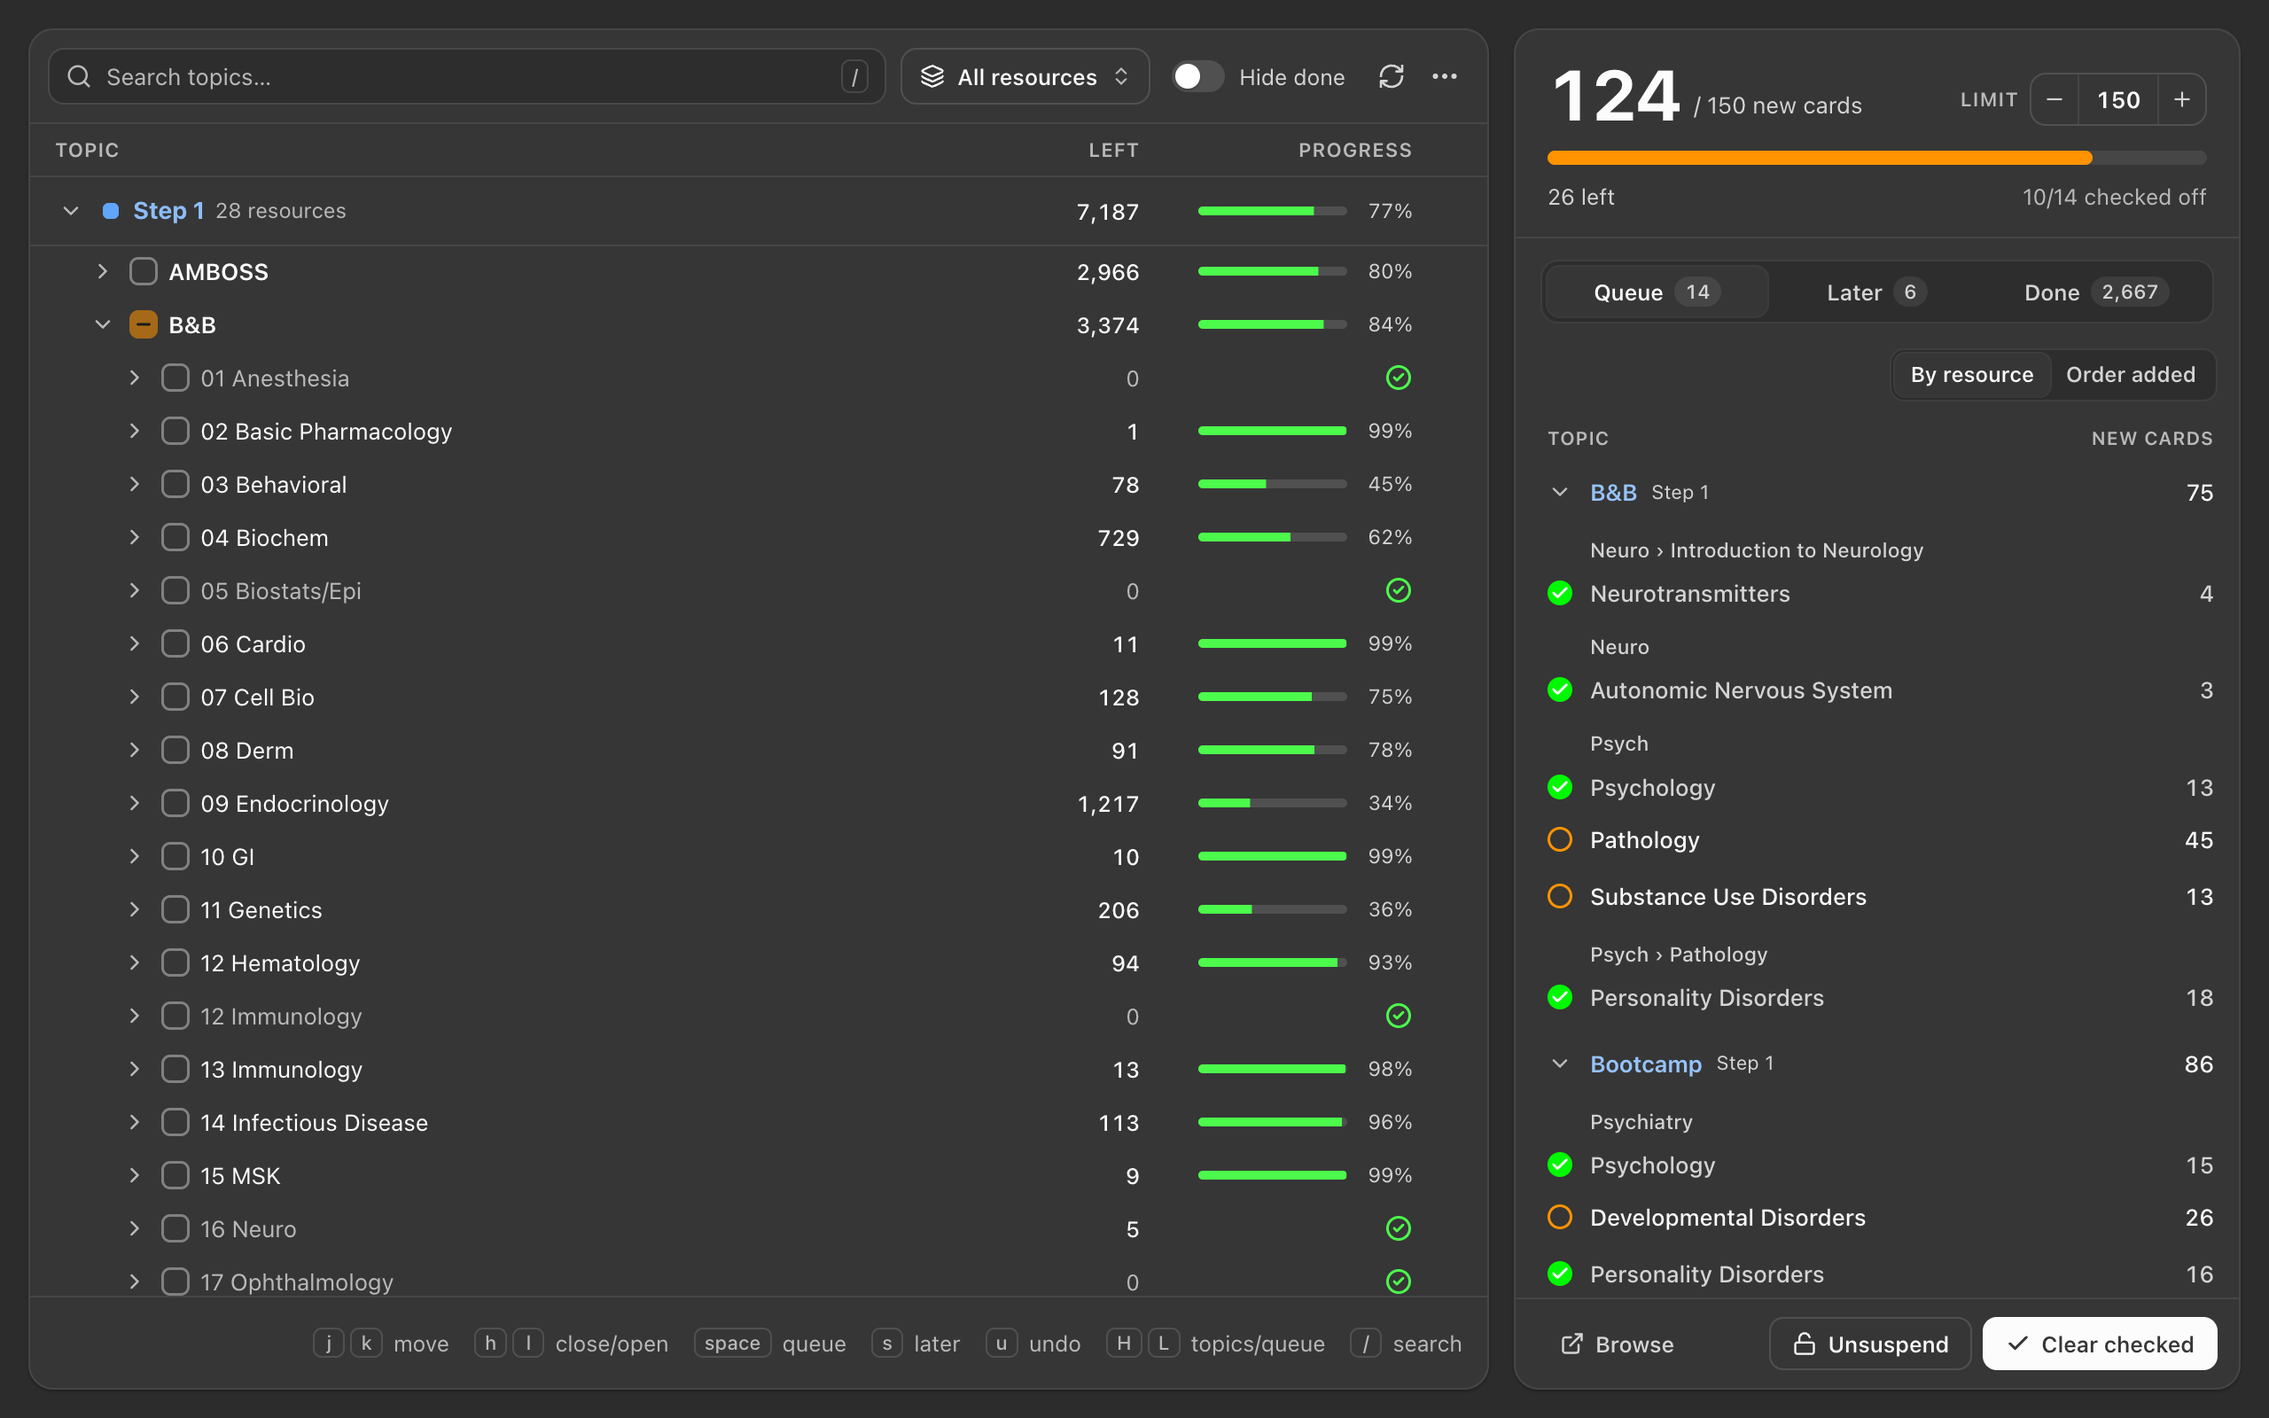
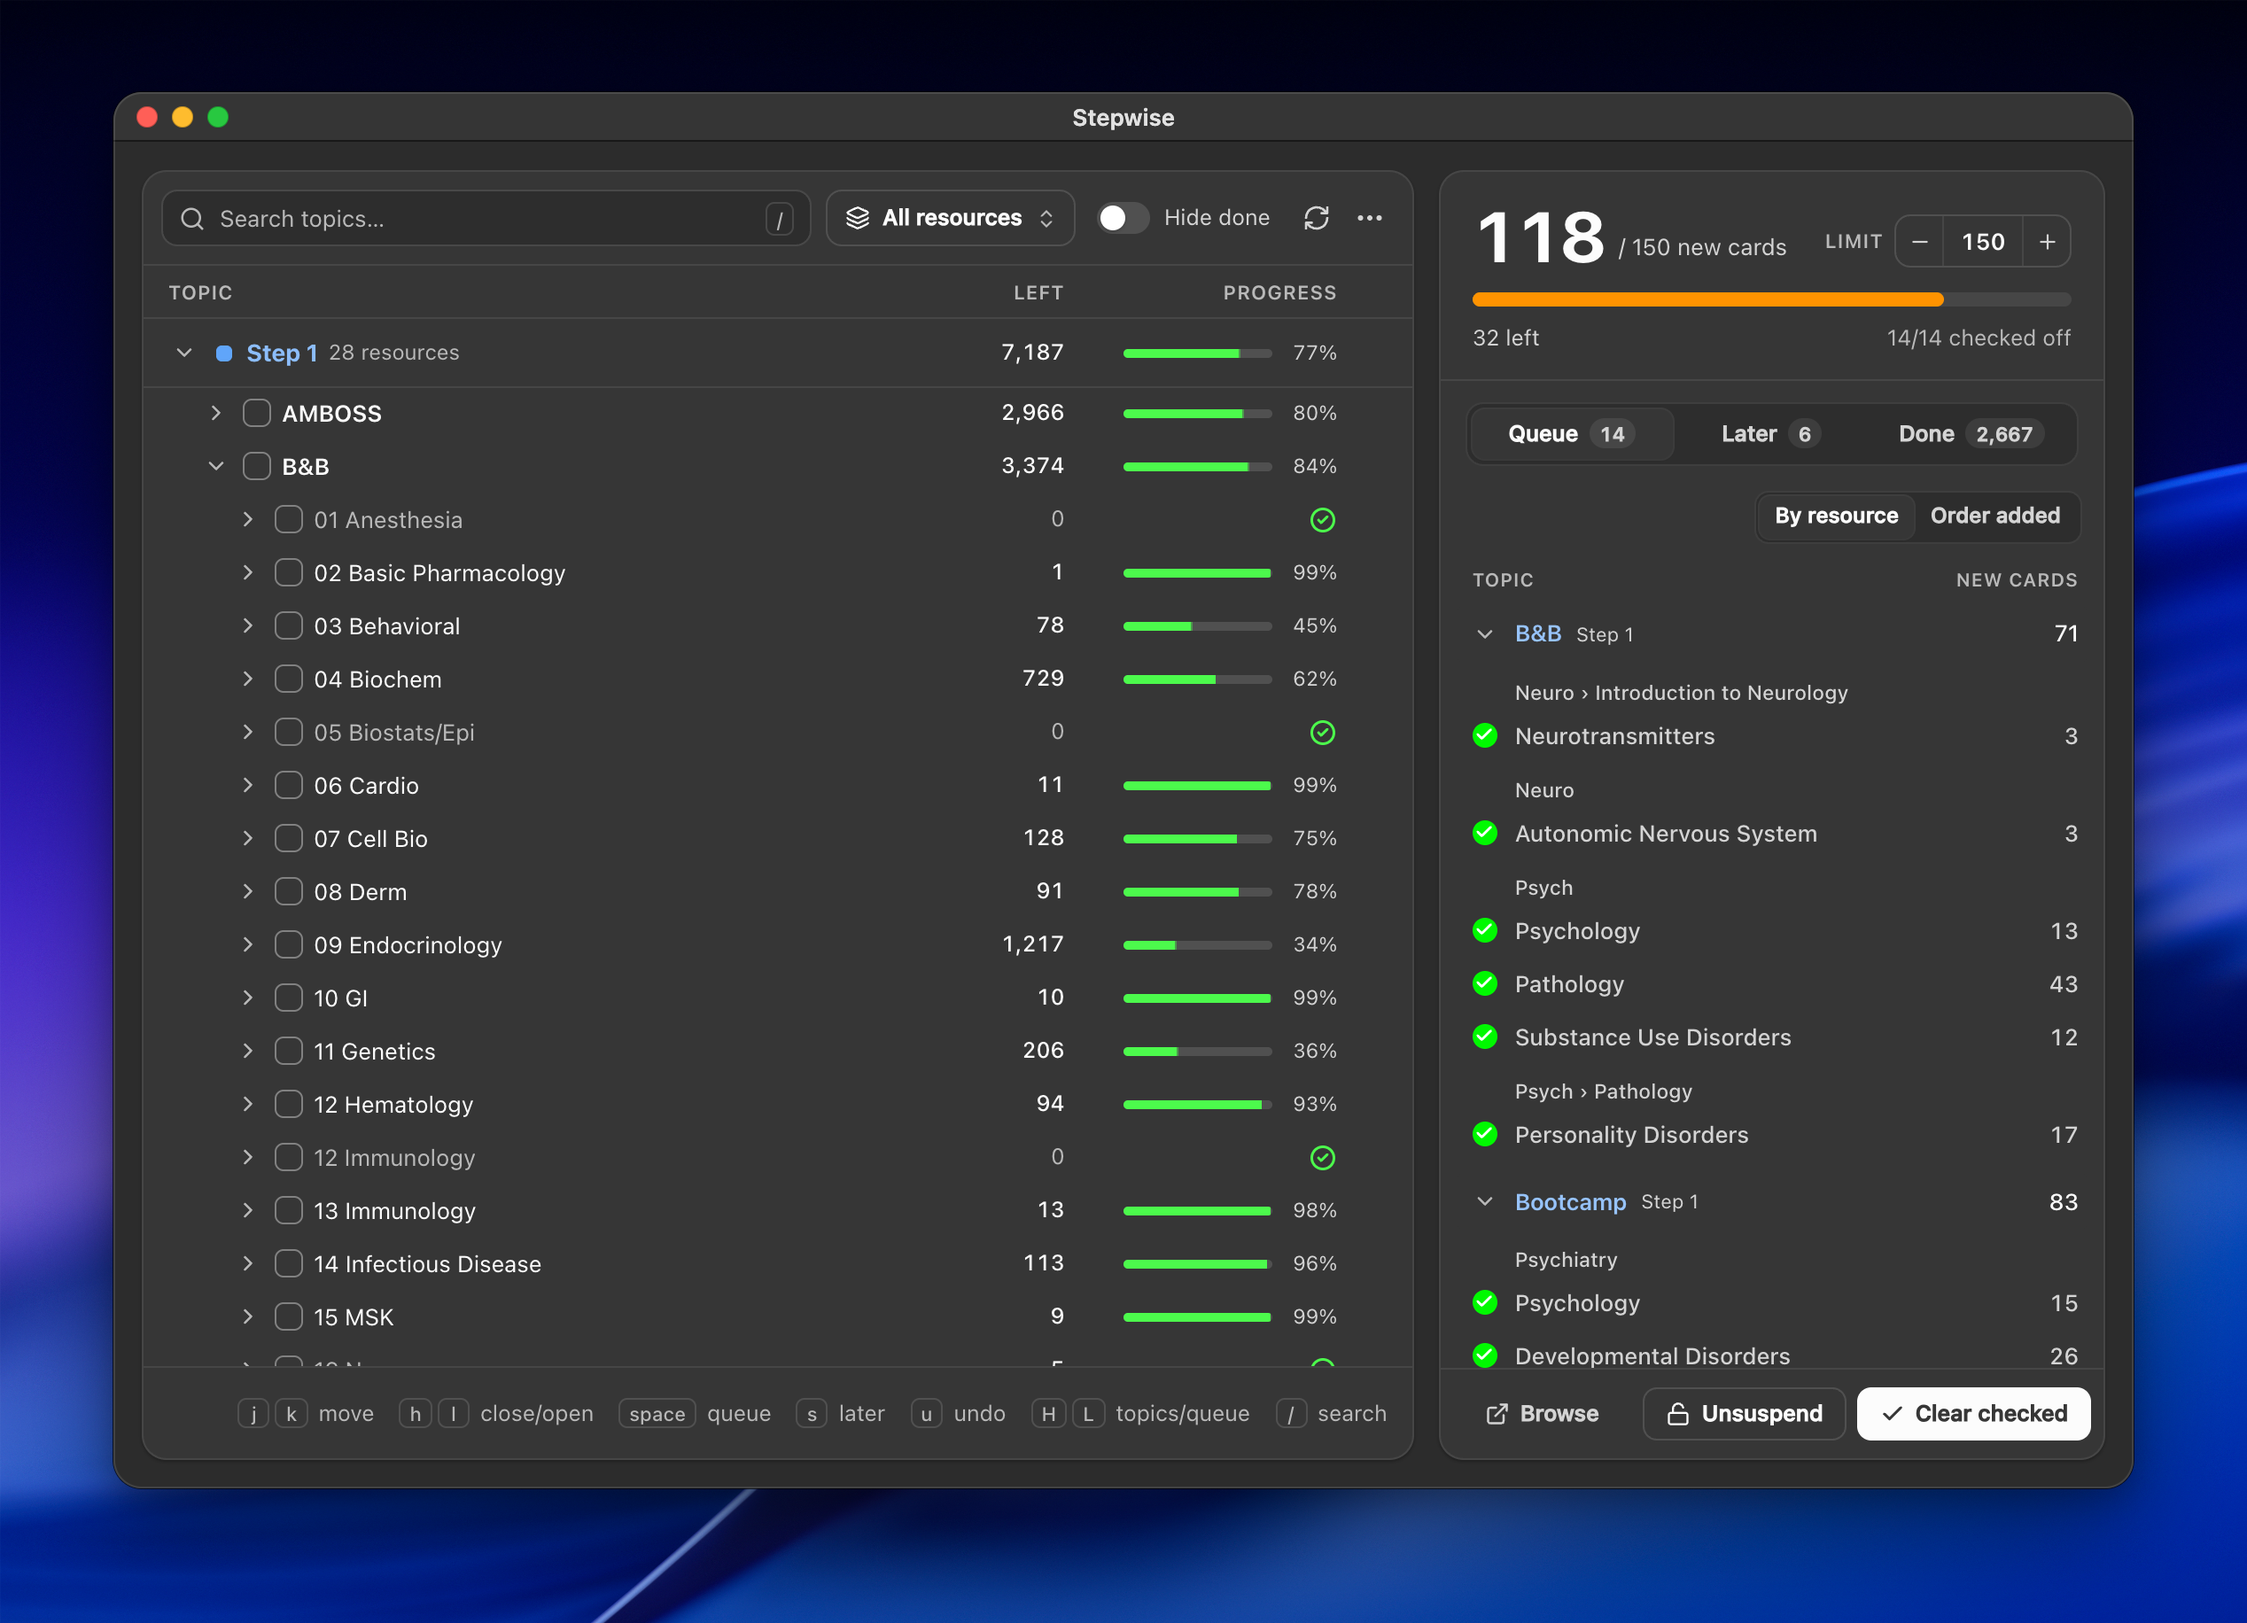
docs: frame the screenshot like the other add-ons'
Same scene as before (the tag tree with B&B open, today's queue), now
the window at its default size framed on macOS Tahoe's dark wallpaper
like every add-on's screenshots, shown at full width in the README.
The listing uses the same file.

diff --git a/README.md b/README.md
@@ -14,7 +14,7 @@ It's built for the AnKing workflow of "cover the resource, unsuspend its cards",
 and works with any hierarchical tags. The window is a web UI (React) that follows
 Anki's light and dark themes, with vim-style keyboard navigation.
 
-![Stepwise: the tag tree by resource on the left, today's queue on the right](docs/screenshot.png)
+<img src="docs/screenshot.png" width="100%" alt="Stepwise: the tag tree by resource on the left, today's queue on the right">
 
 ## Features
 
@@ -250,6 +250,11 @@ cd web && npm run dev   # http://localhost:5173 (add ?theme=dark for dark mode)
 
 Run `./build.sh` to build the UI and produce a distributable `.ankiaddon` in
 `dist/`.
+
+`python3 tools/screenshots.py` renders `docs/screenshot.png` (used here and on
+AnkiWeb) with the add-ons' shared screenshot tools in the kit
+(`../anki-addon-kit/screenshots`): the window from a copy of the test snapshot
+(`tests/fixture/`, or `--collection`), framed on macOS Tahoe's dark wallpaper.
 
 The tests in `tests/` run with Anki's own Python against a snapshot of a real
 collection (an AnKing deck, with Colorful Tags installed). The snapshot stays
